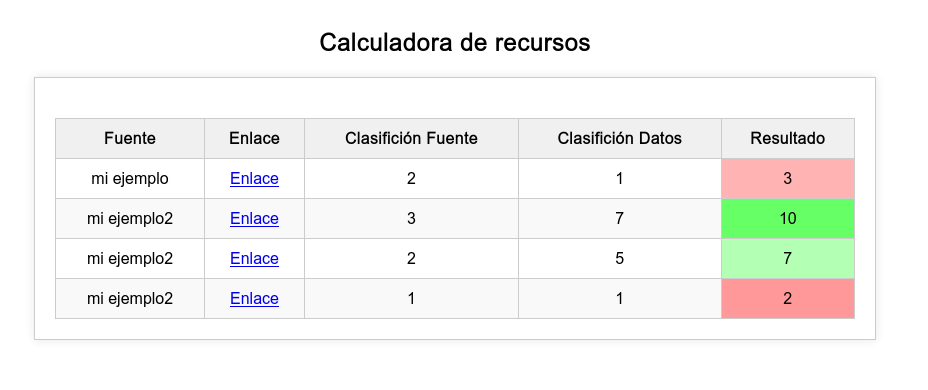
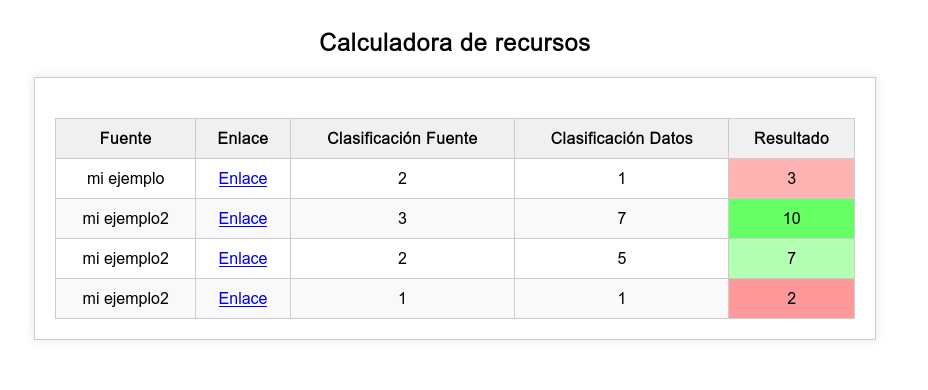
fix: clasificacion de x

diff --git a/htmlprinter.py b/htmlprinter.py
@@ -56,8 +56,8 @@ class HtmlPrinter:
         <thead>
             <th>Fuente</th>
             <th>Enlace</th>
-            <th>Clasifición Fuente</th>
-            <th>Clasifición Datos</th>
+            <th>Clasificación Fuente</th>
+            <th>Clasificación Datos</th>
             <th>Resultado</th>
         </thead>
         <tbody>
